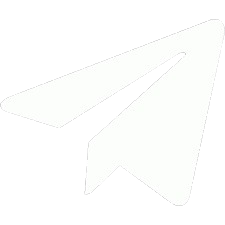
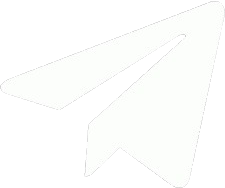
feat: implementa layout mobile-first, modularização de CSS e animações

diff --git a/css/main.css b/css/main.css
@@ -9,9 +9,9 @@
     list-style: none;
     display: flex;
     flex-direction: column;
-    gap: 1.2rem;
+    gap: 1rem;
     width: 100%;
-    max-width: 480px;
+    max-width: 95%;
 }
 
 .botao{
@@ -30,13 +30,13 @@
     align-items: center;
     justify-content: center;
     gap: 15px;
-    padding: 1rem 2rem;
+    padding: 0.7rem 2.5rem;
     width: 100%;
 
     text-decoration: none;
     font-family: "Libre Baskerville", serif;
     font-weight: 700;
-    font-size: 1.2rem;
+    font-size: 0.9rem;
     color: var(--text-color);
 
     background: rgba(255, 255, 255, 0.05);
@@ -58,7 +58,7 @@
     position: absolute;
     inset: 0;
     border-radius: 20px;
-    padding: 2.5px;
+    padding: 2px;
 
     background: linear-gradient(to right, #413eec, #FFFFFF, #a344e2);
     mask: 
@@ -69,24 +69,58 @@
     transition: all 0.3s ease;
 }
 
-.botao_link:hover{
-    background: rgba(255, 255, 255, 0.1);
-    border-color: var(--secondary-color);
-    transform: translateY(-5px);
-    box-shadow: 0 0 20px rgba(105, 27, 250, 0.4);
-}
-
-.botao_link:hover::before {
-    filter: brightness(1.5);
+.botao_link:active {
+    transform: scale(0.95);
 }
 
 .botao_img{
-    width: 28px;
-    height: 28px;
+    width: 20px;
+    height: 20px;
     object-fit: contain;
     transition: transform 0.3s ease;
 }
 
-.botao_link:hover .botao_img {
-    transform: rotate(-5deg) scale(1.1);
+@media (min-width: 768px) {
+    .lista_links {
+        max-width: 550px;
+    }
+    .botao_link{
+        padding: 1rem 4rem;
+        font-size: 1rem;
+    }
+    .botao_link::before {
+        padding: 2.5px;
+    }
+    .botao_img{
+        width: 28px;
+        height: 28px;
+    }
+}
+
+@media (min-width: 1024px) {
+    .lista_links {
+        max-width: 650px;
+    }
+    .botao_link {
+        font-size: 1.2rem;
+    }
+    .botao_img{
+        width: 30px;
+        height: 30px;
+    }
+}
+
+@media (hover: hover) {
+    .botao_link:hover{
+        background: rgba(255, 255, 255, 0.1);
+        border-color: var(--secondary-color);
+        transform: translateY(-5px);
+        box-shadow: 0 0 20px rgba(105, 27, 250, 0.4);
+    }
+    .botao_link:hover::before {
+        filter: brightness(1.5);
+    }
+    .botao_link:hover .botao_img {
+        transform: rotate(-5deg) scale(1.1);
+    }
 }

diff --git a/css/header.css b/css/header.css
@@ -3,18 +3,18 @@
     flex-direction: column;
     align-items: center;
     text-align: center;
-    margin-bottom: 2rem;
+    margin-bottom: 1.5rem;
 
     animation: aparecer 0.8s ease-out backwards;
 }
 
 .container_img {
-    width: 180px;
-    height: 180px;
+    width: 140px;
+    height: 140px;
     padding: 6px;
     background: linear-gradient(135deg, var(--primary-color), var(--secondary-color));
     border-radius: 50%;
-    margin-bottom: 1.3rem;
+    margin-bottom: 1rem;
     box-shadow: 0 0 40px rgba(105, 27, 250, 0.6);
 
     position: relative;
@@ -32,7 +32,7 @@
 .titulo_cabecalho {
     font-family: "Pacifico", cursive;
     font-weight: 700;
-    font-size: 2.5rem;
+    font-size: 1.8rem;
     background: linear-gradient(to right, #ffffff, #E0B0FF);
     -webkit-background-clip: text;
     background-clip: text;
@@ -43,7 +43,7 @@
 .linha_divisora_cabecalho {
     height: 1.5px;
     width: 100%;
-    max-width: 500px;
+    max-width: 100%;
     margin: 10px 0;
     background: linear-gradient(
         to right, 
@@ -56,6 +56,35 @@
 .subtitulo_cabecalho {
     font-family: "Libre Baskerville", serif;
     font-weight: 400;
-    font-size: 1rem;
+    font-size: 0.7rem;
     letter-spacing: 1px;
+}
+
+@media (min-width: 768px) {
+    .container_img {
+        width: 160px;
+        height: 160px;
+    }
+    .titulo_cabecalho {
+        font-size: 2.2rem;
+    }
+    .linha_divisora_cabecalho {
+        max-width: 550px;
+    }
+    .subtitulo_cabecalho {
+        font-size: 0.8rem;
+    }
+}
+
+@media (min-width: 1024px) {
+    .container_img {
+        width: 180px;
+        height: 180px;
+    }
+    .titulo_cabecalho {
+        font-size: 2.5rem;
+    }
+    .linha_divisora_cabecalho {
+        max-width: 650px;
+    }
 }

diff --git a/css/footer.css b/css/footer.css
@@ -1,8 +1,8 @@
 .linha_divisora_rodape {
     width: 100%;
-    max-width: 500px;
+    max-width: 90%;
     height: 1px;
-    margin: 2rem 0 2.5rem 0;
+    margin: 2rem 0;
     position: relative;
 
     background: linear-gradient(
@@ -18,14 +18,44 @@
     left: 50%;
     top: 50%;
     transform: translate(-50%, -50%);
-    width: 8px;
-    height: 8px;
+    width: 5px;
+    height: 5px;
     background: #ffffff;
     border: 1px solid #ffffff;
-    box-shadow: 0 0 10px var(--secondary-color);
+    box-shadow: 0 0 110px var(--secondary-color);
 }
 
 .linha_divisora_rodape, .rodape {
     animation: aparecer 0.8s ease-out backwards;
     animation-delay: 1.2s;
+}
+
+.rodape {
+    max-width: 95%;
+}
+
+.texto_rodape {
+    font-size: 0.6rem;
+    text-align: center;
+    max-width: 200px;
+}
+
+@media (min-width: 768px) {
+    .linha_divisora_rodape {
+        max-width: 500px;
+    }
+    .texto_rodape {
+        font-size: 0.7rem;
+        max-width: 400px;
+    }
+}
+
+@media (min-width: 1024px) {
+    .linha_divisora_rodape {
+        max-width: 600px;
+    }
+    .texto_rodape {
+        font-size: 0.8rem;
+        max-width: 450px;
+    }
 }

diff --git a/css/base.css b/css/base.css
@@ -16,16 +16,16 @@
 }
 
 body {
-    background: url('/assets/simbolo_fundo.png'), 
+    background: url('../assets/simbolo_fundo.png'), 
                 linear-gradient(to right, var(--primary-color), var(--secondary-color));
     background-repeat: repeat;
     background-blend-mode: overlay;
-    min-height: 100vh;
     display: flex;
     flex-direction: column;
     align-items: center;
-    justify-content: center;  
-    padding: 80px 20px;  
+    justify-content: flex-start;  
+    padding: 70px 20px;  
+    min-height: 100vh;
     color: var(--text-color);
 }
 

diff --git a/index.html b/index.html
@@ -16,7 +16,7 @@
         <link rel="icon" href="assets/icone_logo.png" type="image/x-icon">
         <title>Social Links | Isabelly Confessor</title>
     </head>
-    <body>
+    <body ontouchstart="">
         <header class="cabecalho">
             <div class="container_img">
                 <img class="img_cabecalho" src="assets/perfil_isabelly.jpg" alt="Foto de perfil de Isabelly Confessor">
